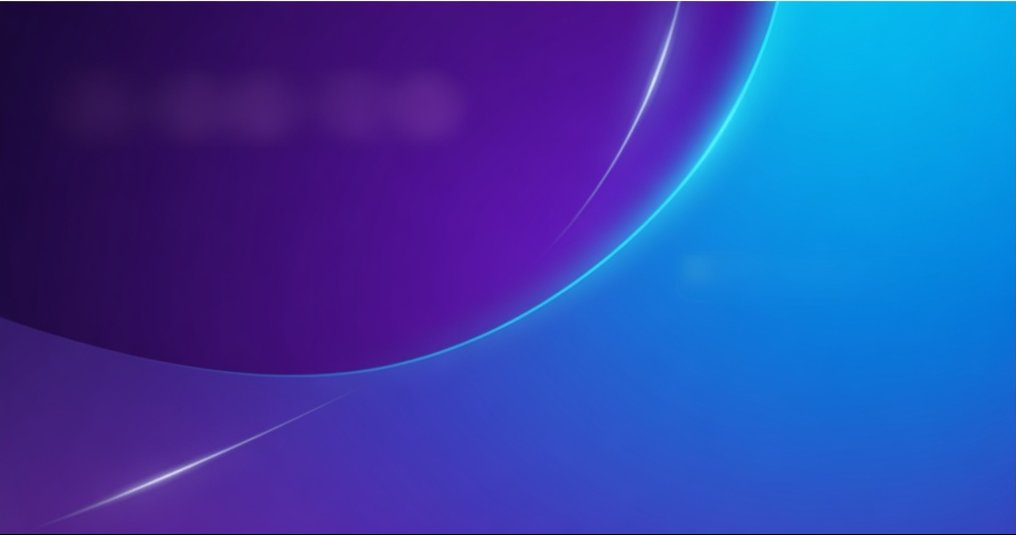
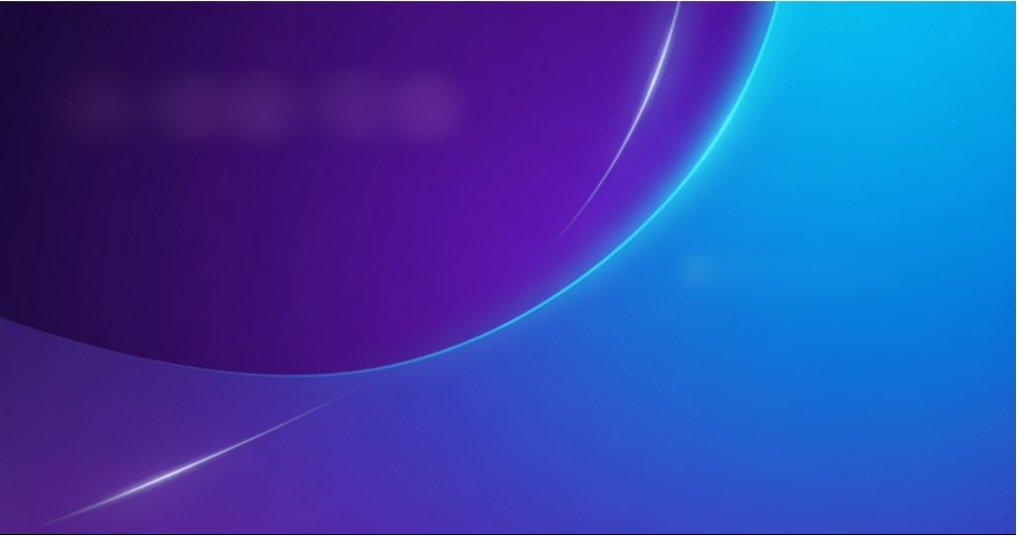
Add files via upload

Changed region(s): [[0.0, 0.0, 1.0, 1.0], [0.0, 0.0, 0.7628, 0.7178]]

diff --git a/opr-explained.html b/opr-explained.html
@@ -136,6 +136,15 @@
   body{font-family:'Inter',system-ui,-apple-system,'Segoe UI',sans-serif}
   header h1,.hero h1{font-family:'Fraunces',Georgia,serif;font-weight:600;letter-spacing:-.01em}
 </style>
+<style id="opr-hero-skin">
+  .hero{
+    background:url('header_bg2.png') center top/cover,linear-gradient(105deg,#1d0a41,#5b17ac 52%,#047fdd) !important;
+    background-blend-mode:luminosity,normal !important;
+    border-radius:0 !important; color:#fff !important; position:relative;
+  }
+  .hero h1,.hero h2,.hero p,.hero .eyebrow,.hero .sub{color:#fff !important}
+  .hero .eyebrow,.hero .kicker{opacity:.85}
+</style>
 </head>
 <body>
 <div id="sxnav" class="sx"><nav>

diff --git a/opr-initial-ratings.html b/opr-initial-ratings.html
@@ -104,6 +104,15 @@
   body{font-family:'Inter',system-ui,-apple-system,'Segoe UI',sans-serif}
   header h1,.hero h1{font-family:'Fraunces',Georgia,serif;font-weight:600;letter-spacing:-.01em}
 </style>
+<style id="opr-hero-skin">
+  .hero{
+    background:url('header_bg2.png') center top/cover,linear-gradient(105deg,#1d0a41,#5b17ac 52%,#047fdd) !important;
+    background-blend-mode:luminosity,normal !important;
+    border-radius:0 !important; color:#fff !important; position:relative;
+  }
+  .hero h1,.hero h2,.hero p,.hero .eyebrow,.hero .sub{color:#fff !important}
+  .hero .eyebrow,.hero .kicker{opacity:.85}
+</style>
 </head>
 <body>
 <div id="sxnav" class="sx"><nav>

diff --git a/opr-admin-handbook.html b/opr-admin-handbook.html
@@ -62,6 +62,15 @@
   body{font-family:'Inter',system-ui,-apple-system,'Segoe UI',sans-serif}
   header h1,.hero h1{font-family:'Fraunces',Georgia,serif;font-weight:600;letter-spacing:-.01em}
 </style>
+<style id="opr-hero-skin">
+  .hero{
+    background:url('header_bg2.png') center top/cover,linear-gradient(105deg,#1d0a41,#5b17ac 52%,#047fdd) !important;
+    background-blend-mode:luminosity,normal !important;
+    border-radius:0 !important; color:#fff !important; position:relative;
+  }
+  .hero h1,.hero h2,.hero p,.hero .eyebrow,.hero .sub{color:#fff !important}
+  .hero .eyebrow,.hero .kicker{opacity:.85}
+</style>
 </head>
 <body>
 <div id="sxnav" class="sx"><nav>

diff --git a/opr-vs-playtomic.html b/opr-vs-playtomic.html
@@ -87,6 +87,15 @@
   body{font-family:'Inter',system-ui,-apple-system,'Segoe UI',sans-serif}
   header h1,.hero h1{font-family:'Fraunces',Georgia,serif;font-weight:600;letter-spacing:-.01em}
 </style>
+<style id="opr-hero-skin">
+  .hero{
+    background:url('header_bg2.png') center top/cover,linear-gradient(105deg,#1d0a41,#5b17ac 52%,#047fdd) !important;
+    background-blend-mode:luminosity,normal !important;
+    border-radius:0 !important; color:#fff !important; position:relative;
+  }
+  .hero h1,.hero h2,.hero p,.hero .eyebrow,.hero .sub{color:#fff !important}
+  .hero .eyebrow,.hero .kicker{opacity:.85}
+</style>
 </head>
 <body>
 <div id="sxnav" class="sx"><nav>

diff --git a/add-to-phone.html b/add-to-phone.html
@@ -79,6 +79,15 @@
   .foot-links a{color:rgba(255,255,255,.72);font-weight:500}
 </style>
 <style id="opr-site-nav-fit">.nav-links{gap:24px}.foot-links{gap:22px}</style>
+<style id="opr-hero-skin">
+  .hero{
+    background:url('header_bg2.png') center top/cover,linear-gradient(105deg,#1d0a41,#5b17ac 52%,#047fdd) !important;
+    background-blend-mode:luminosity,normal !important;
+    border-radius:0 !important; color:#fff !important; position:relative;
+  }
+  .hero h1,.hero h2,.hero p,.hero .eyebrow,.hero .sub{color:#fff !important}
+  .hero .eyebrow,.hero .kicker{opacity:.85}
+</style>
 </head>
 <body>
 

diff --git a/pricing.html b/pricing.html
@@ -86,6 +86,15 @@
   .foot-links a{color:rgba(255,255,255,.72);font-weight:500}
 </style>
 <style id="opr-site-nav-fit">.nav-links{gap:24px}.foot-links{gap:22px}</style>
+<style id="opr-hero-skin">
+  .hero{
+    background:url('header_bg2.png') center top/cover,linear-gradient(105deg,#1d0a41,#5b17ac 52%,#047fdd) !important;
+    background-blend-mode:luminosity,normal !important;
+    border-radius:0 !important; color:#fff !important; position:relative;
+  }
+  .hero h1,.hero h2,.hero p,.hero .eyebrow,.hero .sub{color:#fff !important}
+  .hero .eyebrow,.hero .kicker{opacity:.85}
+</style>
 </head>
 <body>
 

diff --git a/how-it-works.html b/how-it-works.html
@@ -118,6 +118,15 @@
   .no-js .reveal{opacity:1;transform:none}
 </style>
 <style id="opr-site-nav-fit">.nav-links{gap:24px}.foot-links{gap:22px}</style>
+<style id="opr-hero-skin">
+  .hero{
+    background:url('header_bg2.png') center top/cover,linear-gradient(105deg,#1d0a41,#5b17ac 52%,#047fdd) !important;
+    background-blend-mode:luminosity,normal !important;
+    border-radius:0 !important; color:#fff !important; position:relative;
+  }
+  .hero h1,.hero h2,.hero p,.hero .eyebrow,.hero .sub{color:#fff !important}
+  .hero .eyebrow,.hero .kicker{opacity:.85}
+</style>
 </head>
 <body>
 

diff --git a/index.html b/index.html
@@ -263,6 +263,15 @@
   .no-js .reveal{opacity:1;transform:none}
 </style>
 <style id="opr-site-nav-fit">.nav-links{gap:24px}.foot-links{gap:22px}</style>
+<style id="opr-hero-skin">
+  .hero{
+    background:url('header_bg2.png') center top/cover,linear-gradient(105deg,#1d0a41,#5b17ac 52%,#047fdd) !important;
+    background-blend-mode:luminosity,normal !important;
+    border-radius:0 !important; color:#fff !important; position:relative;
+  }
+  .hero h1,.hero h2,.hero p,.hero .eyebrow,.hero .sub{color:#fff !important}
+  .hero .eyebrow,.hero .kicker{opacity:.85}
+</style>
 </head>
 <body>
 
